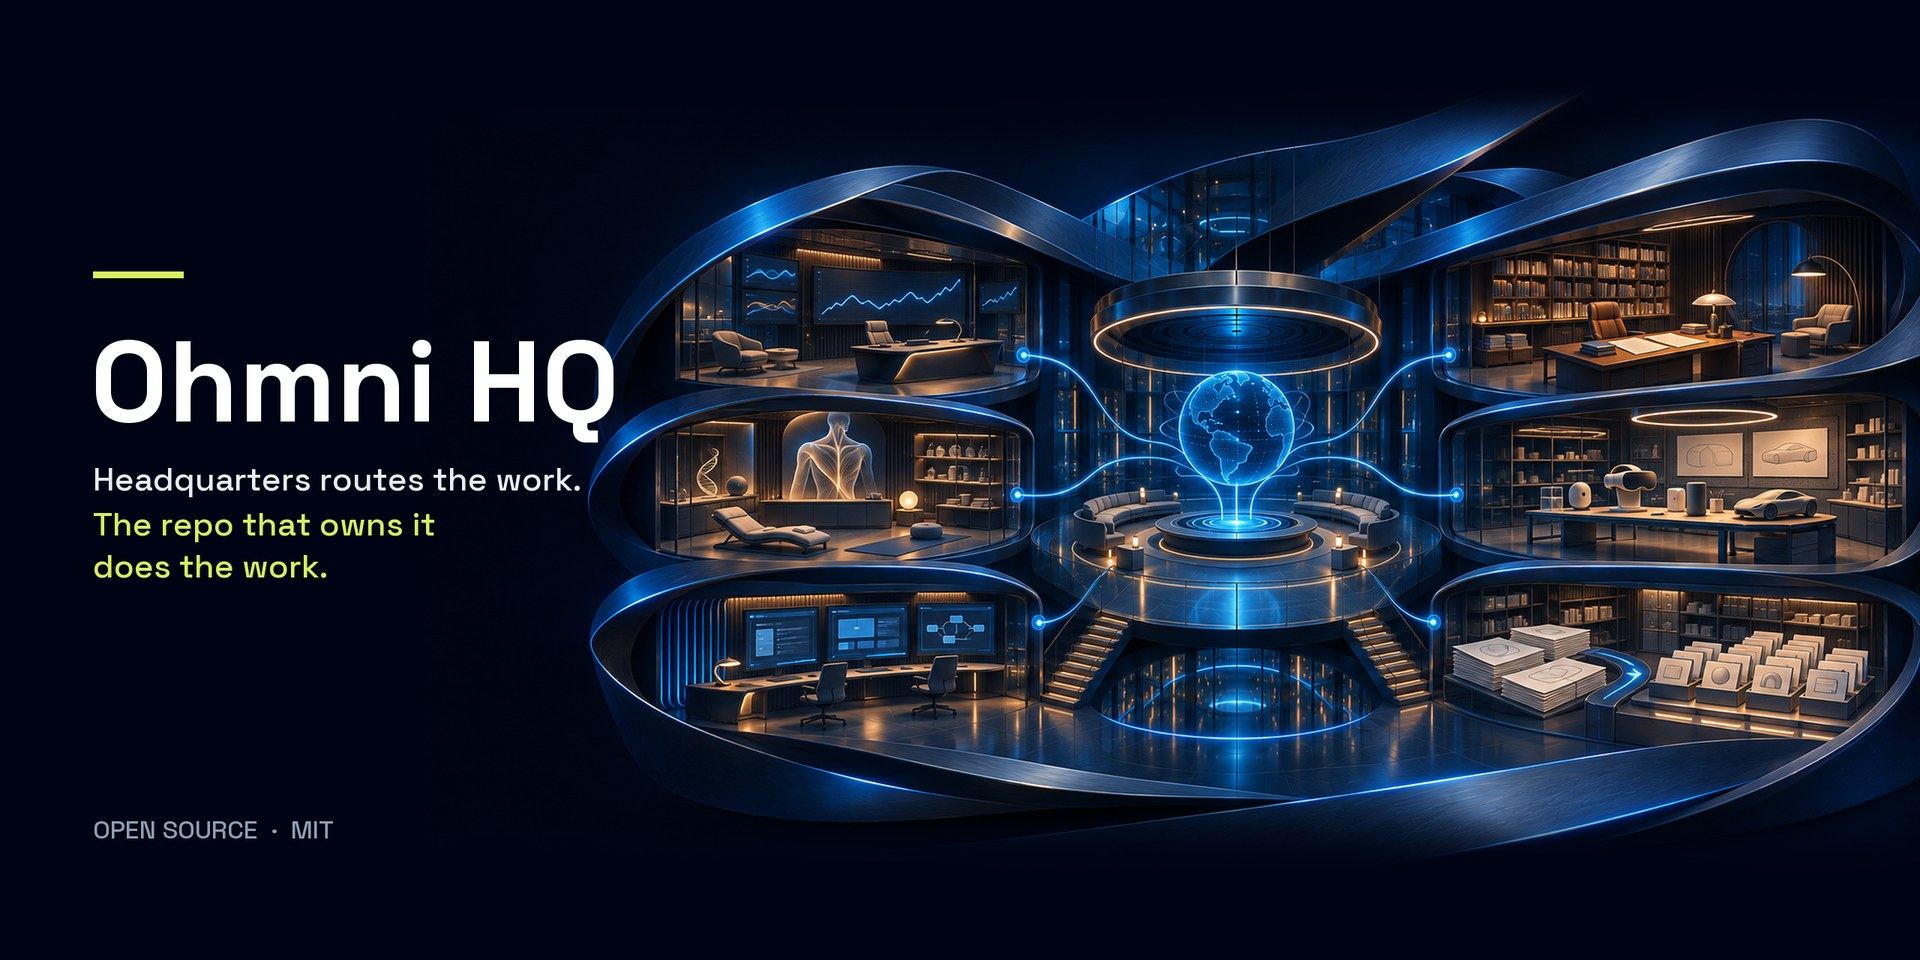
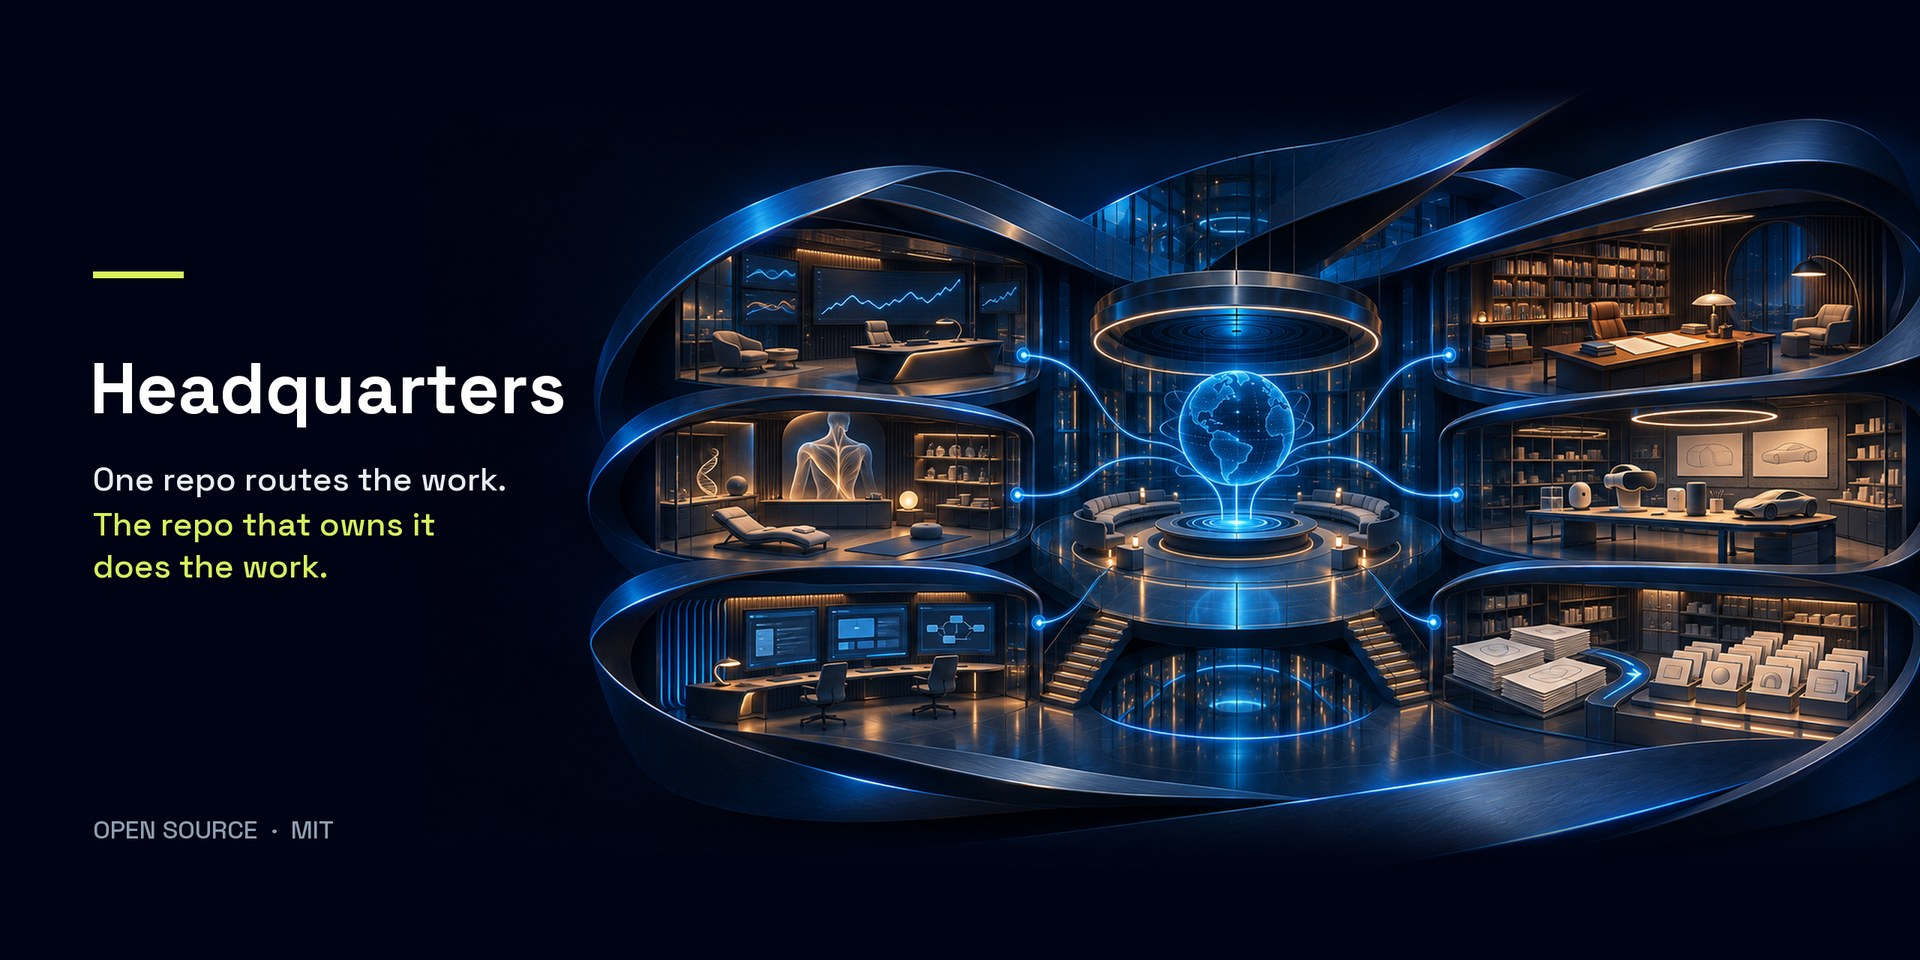
docs: name the project Headquarters

Changed region(s): [[0.0312, 0.3438, 0.3438, 0.4688], [0.0625, 0.4688, 0.3125, 0.5312]]

diff --git a/README.md b/README.md
@@ -1,18 +1,18 @@
-![Ohmni HQ: one headquarters connected to every room of the work](docs/assets/hero.jpg)
+![Headquarters: one hub connected to every room of the work](docs/assets/hero.jpg)
 
-# Ohmni HQ
+# Headquarters
 
 **Headquarters routes the work. The repo that owns the work does it.**
 
-Ohmni HQ is one repo that runs all your other repos. It knows what you own,
+Headquarters is one repo that runs all your other repos. It knows what you own,
 decides where each job goes, sends an agent into the right repo to do it, and
 holds the rules for what agents can do without asking you.
 
 It works with Claude Code and Codex. It is a folder of plain files. There is no
 server and nothing to host.
 
-Nothing you install carries this name. The rules, the registry and the checks
-just say "headquarters," and you can call yours whatever you want.
+It carries no brand. Once it is set up it is your headquarters, and you can
+call it whatever you want.
 
 ## Why it exists
 
@@ -51,7 +51,7 @@ the job this repo does.
 ## Start in two minutes
 
 ```bash
-git clone https://github.com/BTCElectrician/ohmni-headquarters.git
+git clone https://github.com/BTCElectrician/headquarters.git
 ```
 
 Open Claude Code or Codex in the folder and say:

diff --git a/docs/HISTORY.md b/docs/HISTORY.md
@@ -1,13 +1,13 @@
 <!-- reviewed: 2026-11-12 | review every: as needed -->
 # History
 
-Ohmni HQ started as a private repository on January 31, 2026, built to run
+Headquarters started as a private repository on January 31, 2026, built to run
 the repositories behind [Ohmni Oracle](https://ohmnioracle.com). This public
 starter is a fresh build written from how that private repository works. The
 private history stays private because it holds business and personal
 material, so this page records when each piece first appeared there.
 
-| Date | What landed in the private Ohmni HQ |
+| Date | What landed in the private headquarters |
 | --- | --- |
 | January 31, 2026 | First commit: the repo registry, the agent instructions, the status file, the all-repos status command |
 | February 6, 2026 | The work queue |
